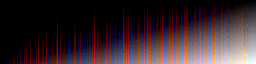
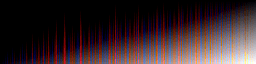
Add priority & fix dark shade table

diff --git a/src/shadetabler.c b/src/shadetabler.c
@@ -10,8 +10,8 @@
 #include "exoquant/exoquant.h"
 #include "cwalk/cwalk.h"
 
-#define SHADETABLER_VERSION "1.0.3"
-#define SHADETABLER_VERSION_DATE "2020-09-21"
+#define SHADETABLER_VERSION "1.0.4"
+#define SHADETABLER_VERSION_DATE "2020-09-22"
 #define SHADETABLER_HEADER "ShadeTabler (Shade Table Generator) by Todi / Tulou - version " SHADETABLER_VERSION " (" SHADETABLER_VERSION_DATE ")"
 
 #define MIN(a,b) (((a)<(b))?(a):(b))
@@ -35,6 +35,7 @@ static void usage() {
 	printf(" -t, --type [light|dark|both]    Number of shades in shade table. (Default \"light\")\n");
 	printf(" -h, --hq                        High quality quantization quality.\n");
 	printf(" -r, --reserve                   Reserve colors for black and white.\n");
+	printf(" -p, --priority [0-...]          Priority of input file colors over generated shaded. (Default 0)\n");
 	printf(" -l, --light                     Light shade table filename. (Default \"shadetable_light.png\")\n");
 	printf(" -d, --dark                      Dark shade table filename. (Default \"shadetable_dark.png\")\n");
 	printf("\n");
@@ -55,12 +56,13 @@ int main(int argc, char *argv[]) {
  		{"type", optional_argument, 0, 't' },
 		{"hq", no_argument, 0, 'h' },
 		{"reserve", no_argument, 0, 'r' },
+		{"priority", optional_argument, 0, 'p' },
 		{"light", optional_argument, 0, 'l' },
 		{"dark", optional_argument, 0, 'd' },
 		{0, 0, 0, 0}
 	};
 
-	const char *optstring = "o:vfc:s:t:hrl:d:";
+	const char *optstring = "o:vfc:s:t:hrp:l:d:";
 
 	if (argc <= 1) {
 		usage();
@@ -75,6 +77,7 @@ int main(int argc, char *argv[]) {
 	unsigned int type = TYPE_LIGHT;
 	unsigned int hq = 0;
 	unsigned int reserve = 0;
+	unsigned int priority = 0;
 	char *light_output = "shadetable_light.png";
 	char *dark_output = "shadetable_dark.png";
 
@@ -108,6 +111,9 @@ int main(int argc, char *argv[]) {
 				break;
 			case 'r':
 				reserve = 1;
+				break;
+			case 'p':
+				priority = atoi(optarg);
 				break;
 			case 'l':
 				light_output = optarg;
@@ -176,19 +182,23 @@ int main(int argc, char *argv[]) {
 			goto error;
 		}
 
-		if (verbose) {
-			printf("Generating shades for input file \"%s\".\n", path);
-		}
-
 		unsigned char *buffer = images[i].buffer;
 		unsigned int width = images[i].width;
 		unsigned int height = images[i].height;
+
+		if (verbose) {
+			printf("Generating priority colors for input file \"%s\".\n", path);
+		}
+
+		for (int j = 0; j < priority; j++) {
+			exq_feed_extened(exq, buffer, width * height, 0, reserve);
+		}
 
 		if (type == TYPE_LIGHT || type == TYPE_BOTH) {
 			if (verbose) {
 				printf("Generating light shades for input file \"%s\".\n", path);
 			}
-			for (int j = 0; j < shades; j++) {
+			for (int j = 1; j < shades; j++) {
 				int shade = (int)floor((((float)j) / ((float)(shades - 1)) * 255.0f) + 0.5);
 				exq_feed_extened(exq, buffer, width * height, shade, reserve);
 			}
@@ -198,8 +208,8 @@ int main(int argc, char *argv[]) {
 			if (verbose) {
 				printf("Generating dark shades for input file \"%s\".\n", path);
 			}
-			for (int j = 0; j < shades; j++) {
-				int shade = ((int)floor((((float)j) / ((float)(shades - 1)) * 255.0f) + 0.5)) - 255;
+			for (int j = 0; j < (shades - 1); j++) {
+				int shade = ((int)floor((((float)j) / ((float)(shades - 1)) * 255.0f) - 0.5)) - 255;
 				exq_feed_extened(exq, buffer, width * height, shade, reserve);
 			}
 		}

diff --git a/README.md b/README.md
@@ -20,6 +20,7 @@ Available options are:
 	-s, --shades [2-256]            Number of shades in shade table. (Default 64)
 	-t, --type [light|dark|both]    Number of shades in shade table. (Default "light")
 	-h, --hq                        High quality quantization quality.
+	-p, --priority [0-...]          Priority of input file colors over generated shaded. (Default 0)
 	-r, --reserve                   Reserve colors for black and white.
 	-l, --light                     Light shade table filename. (Default "shadetable_light.png")
 	-d, --dark                      Dark shade table filename. (Default "shadetable_dark.png")
